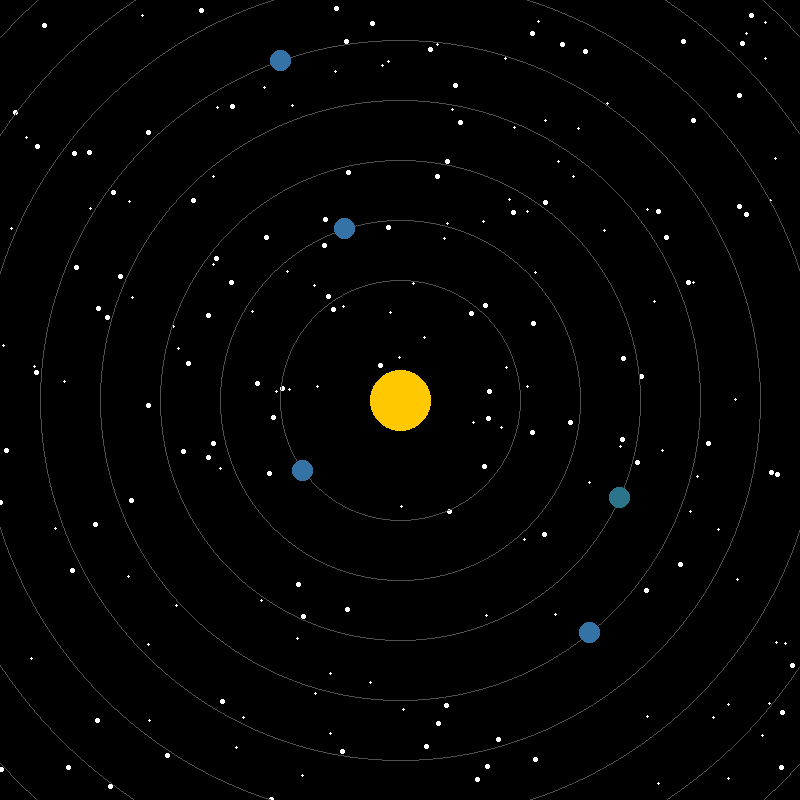
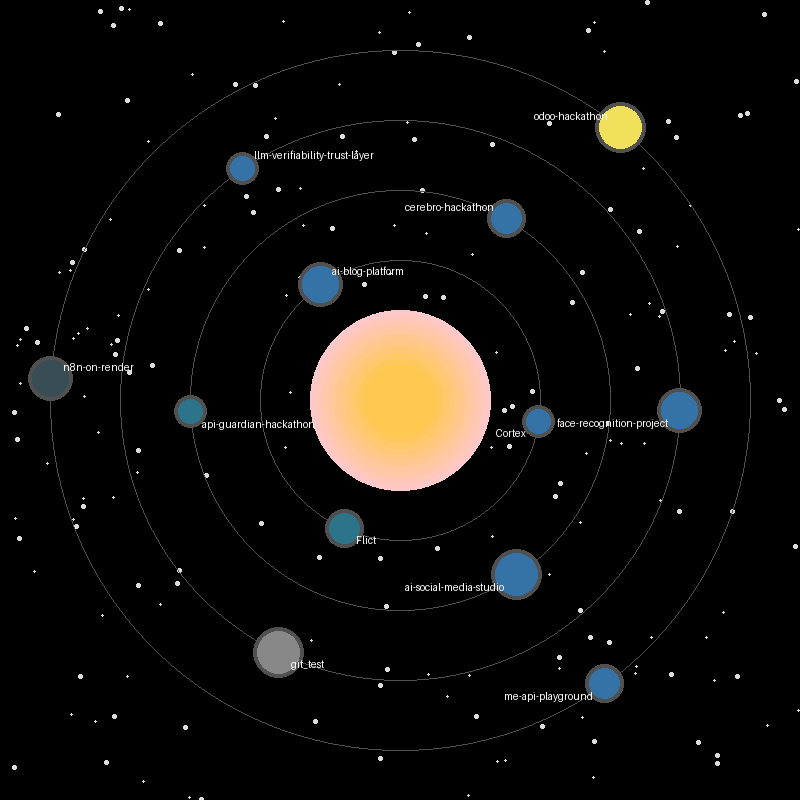
Improved solar system layout, planet visibility, and labels

diff --git a/python/render_universe.py b/python/render_universe.py
@@ -1,5 +1,6 @@
 import json
 import math
+import random
 from PIL import Image, ImageDraw
 
 WIDTH = 800
@@ -15,28 +16,28 @@ def load_planets():
 
 def draw_starfield(draw):
 
-    import random
-
     for _ in range(200):
         x = random.randint(0, WIDTH)
         y = random.randint(0, HEIGHT)
         r = random.randint(1,2)
 
-        draw.ellipse((x-r,y-r,x+r,y+r), fill="white")
+        draw.ellipse((x-r,y-r,x+r,y+r), fill=(220, 220, 220))
 
 def draw_sun(draw):
 
-    r = 30
+    for r in range(90, 30, -6):
 
-    draw.ellipse(
-        (
-            CENTER[0]-r,
-            CENTER[1]-r,
-            CENTER[0]+r,
-            CENTER[1]+r
-        ),
-        fill=(255,200,0)
-    )
+        glow = int(200 * (r / 90))
+
+        draw.ellipse(
+            (
+                CENTER[0]-r,
+                CENTER[1]-r,
+                CENTER[0]+r,
+                CENTER[1]+r
+            ),
+            fill=(255, 200, glow)
+        )
 
 def draw_orbits(draw, planets):
 
@@ -67,14 +68,37 @@ def draw_planets(draw, planets):
         size = p["planet_size"]
 
         draw.ellipse(
-            (
-                x-size,
-                y-size,
-                x+size,
-                y+size
-            ),
-            fill=p["color"]
+        (
+        x-size-4,
+        y-size-4,
+        x+size+4,
+        y+size+4
+        ),
+        fill=(80,80,80)
         )
+
+        draw.ellipse(
+        (
+        x-size,
+        y-size,
+        x+size,
+        y+size
+        ),
+        fill=p["color"]
+        )
+
+        offset_x = 12 if x < CENTER[0] else -12
+        offset_y = -8 if y < CENTER[1] else 8
+
+        anchor_x = "l" if x < CENTER[0] else "r"
+        anchor_y = "b" if y < CENTER[1] else "t"
+
+        draw.text(
+            (x + offset_x, y + offset_y),
+            p["name"],
+            fill=(255,255,255),
+            anchor=anchor_x + anchor_y
+            )
 
 def render():
 

diff --git a/python/generate_universe_layout.py b/python/generate_universe_layout.py
@@ -22,18 +22,32 @@ def generate_layout(repos):
 
     layout = []
 
-    base_orbit = 120
-    orbit_spacing = 60
+    base_orbit = 140
+    orbit_spacing = 70
+    planets_per_orbit = 3
 
-    for i, repo in enumerate(repos):
+    sorted_repos = sorted(repos, key=lambda r: r["name"])
 
-        orbit = base_orbit + i * orbit_spacing
+    for i, repo in enumerate(sorted_repos):
+
+        orbit_index = i // planets_per_orbit
+        planet_index_on_orbit = i % planets_per_orbit
+
+        orbit = base_orbit + orbit_index * orbit_spacing
+
+        angle_on_orbit = (planet_index_on_orbit / planets_per_orbit) * (2 * np.pi)
+
+        orbit_angle_offset = (orbit_index % 2) * (np.pi / planets_per_orbit)
+
+        angle_jitter = random.uniform(-np.pi / 18, np.pi / 18)  
+
+        angle = angle_on_orbit + orbit_angle_offset + angle_jitter
 
         planet = {
             "name": repo["name"],
             "orbit_radius": orbit,
-            "planet_size": 10 + repo["stars"] * 2,
-            "angle": random.uniform(0, 2*np.pi),
+            "planet_size": 12 + (i % 4) * 3,
+            "angle": angle,
             "color": LANGUAGE_COLORS.get(repo["language"], "#aaaaaa")
         }
 
